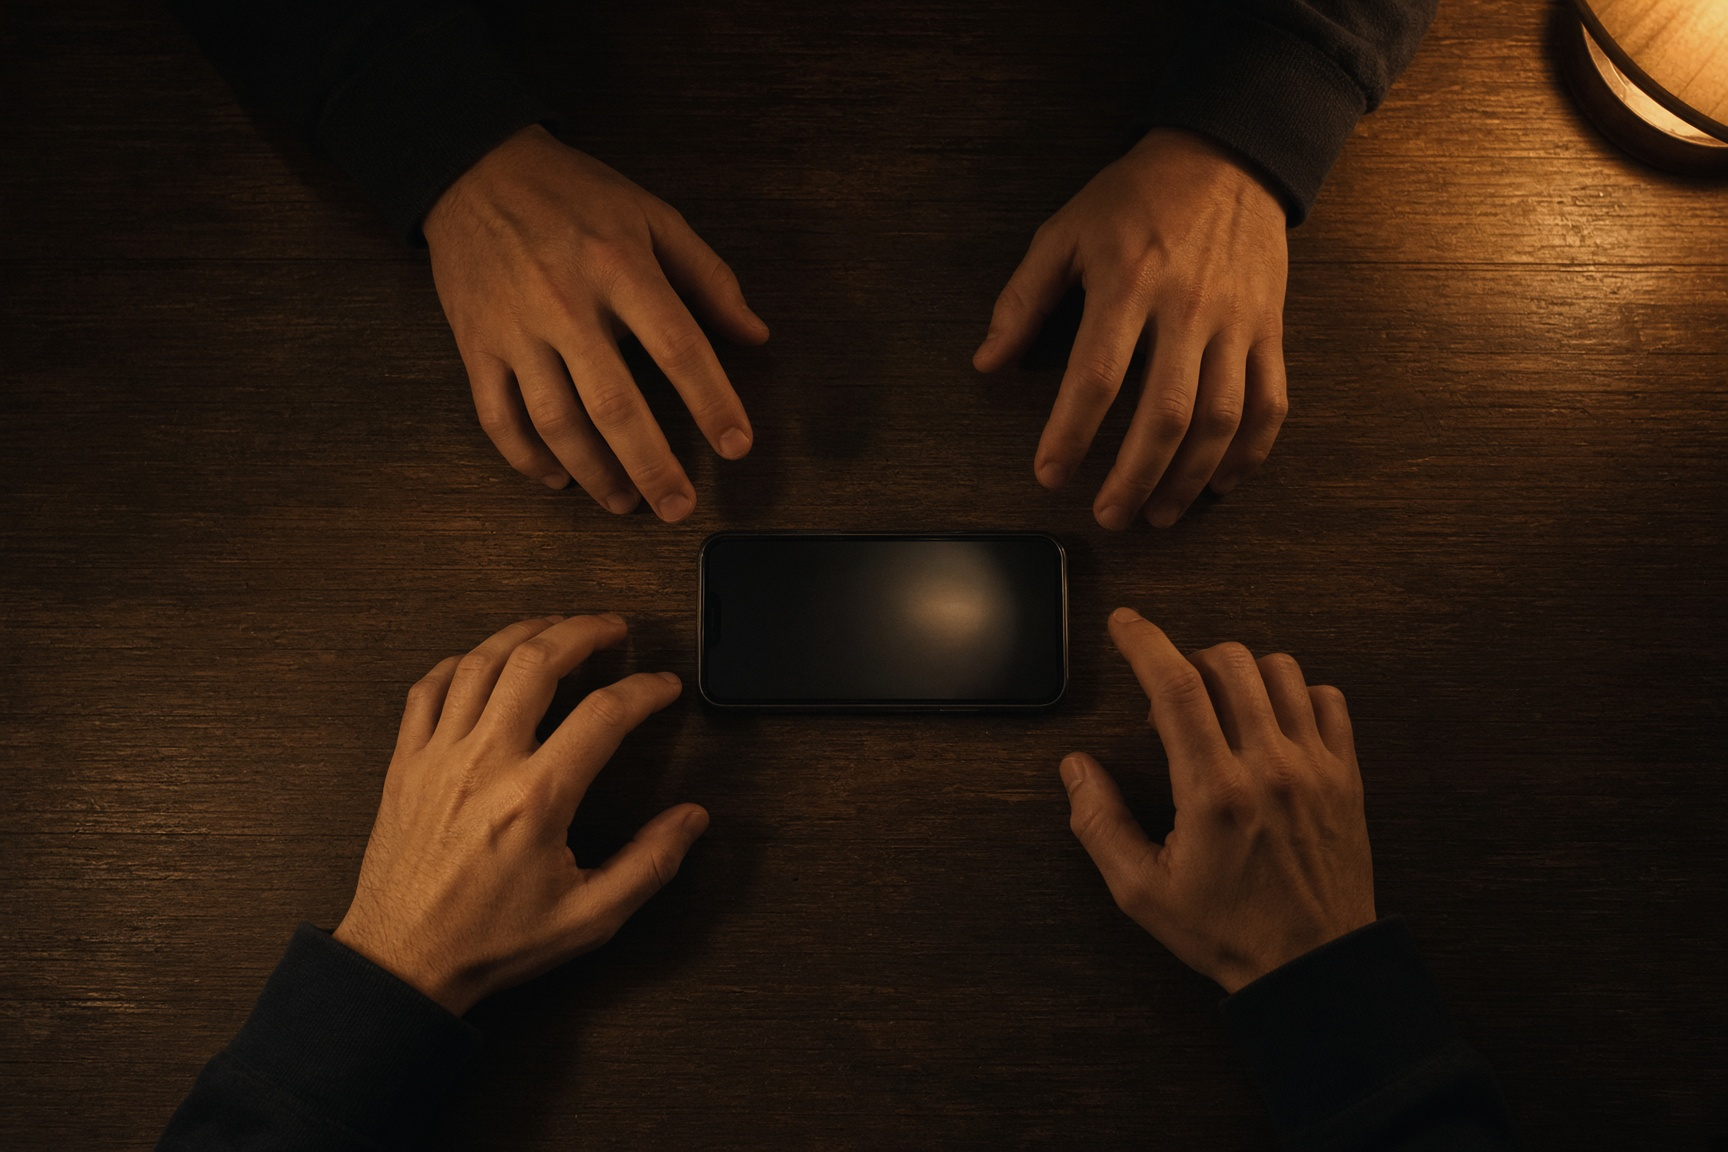
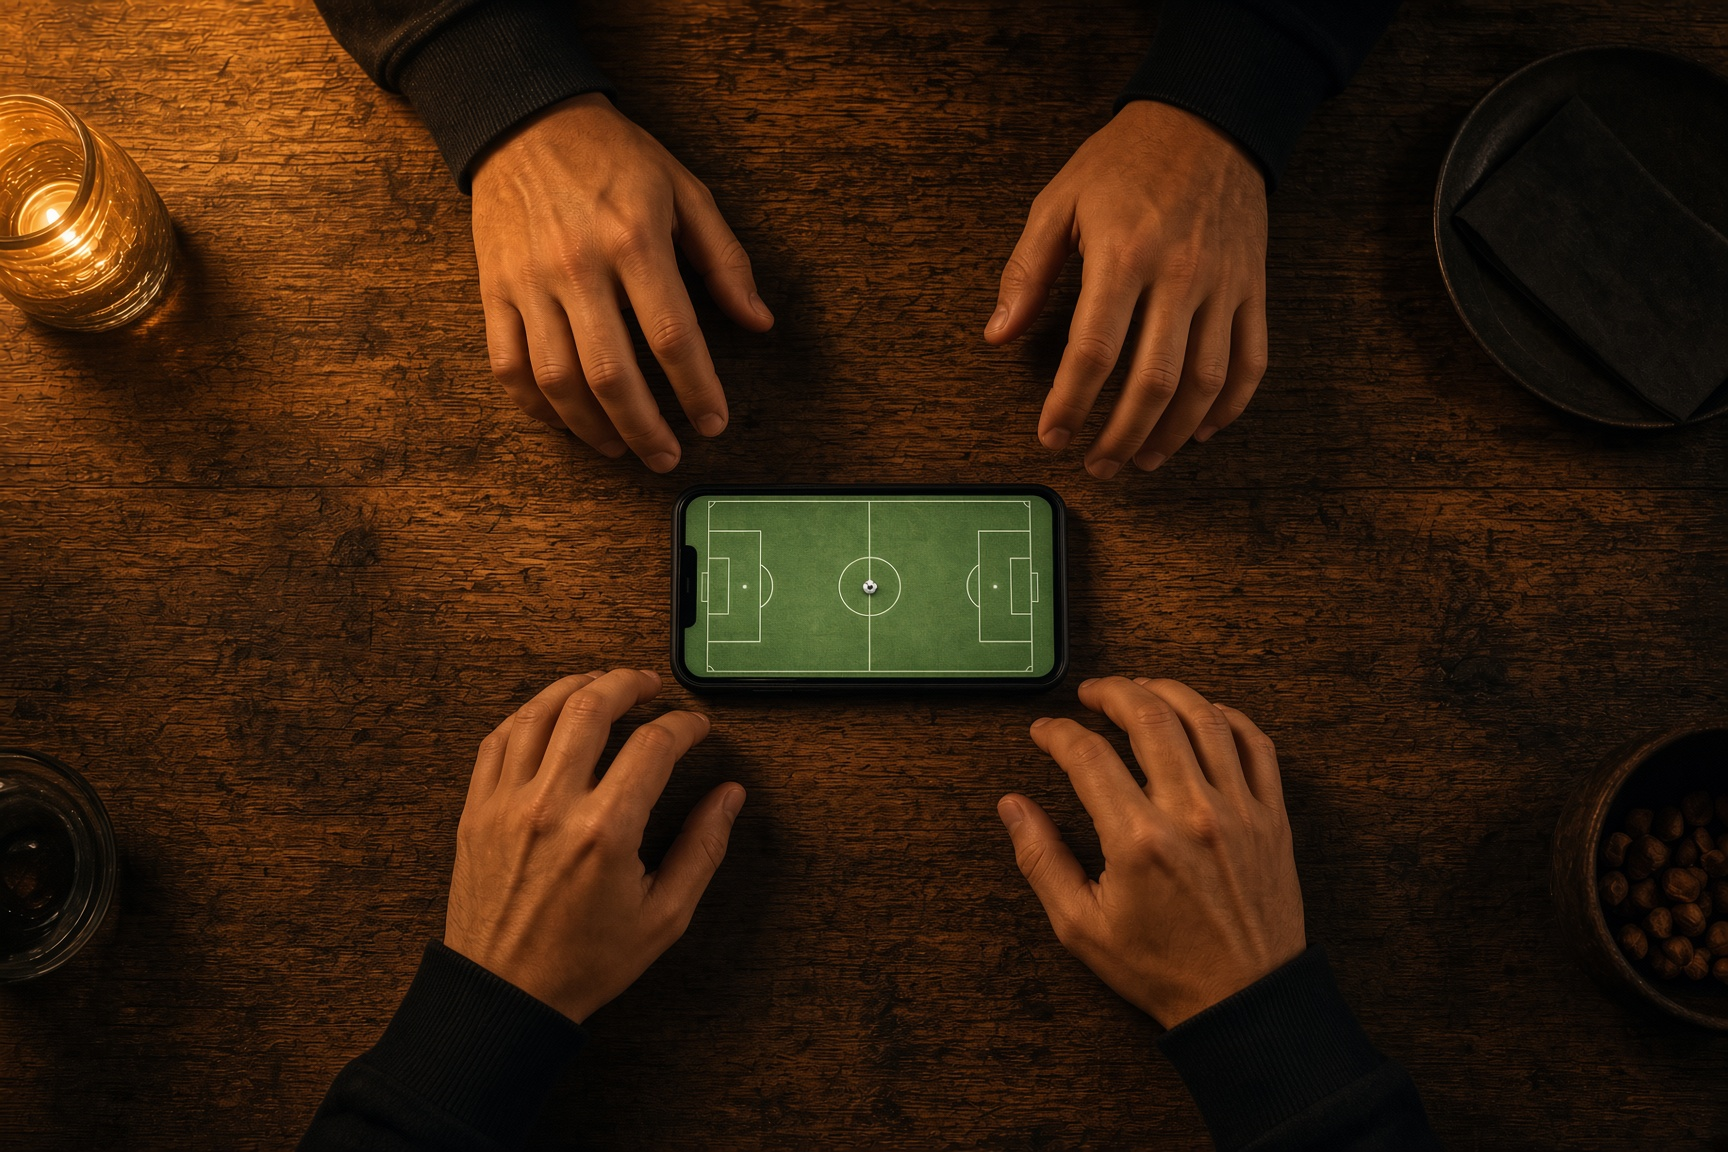
Add smiley ball skin and a clearer hands photo
New Sorriso ball and Estrela gloves. Landing/tutorial shot now
shows two players opposite on one phone.

diff --git a/src/game/render.ts b/src/game/render.ts
@@ -656,6 +656,20 @@ export class Renderer {
     ctx.restore();
   }
 
+  private drawSmileFace(ctx: CanvasRenderingContext2D, r: number) {
+    ctx.fillStyle = "#1a1208";
+    ctx.beginPath();
+    ctx.ellipse(-r * 0.22, -r * 0.12, r * 0.1, r * 0.14, 0, 0, Math.PI * 2);
+    ctx.ellipse(r * 0.22, -r * 0.12, r * 0.1, r * 0.14, 0, 0, Math.PI * 2);
+    ctx.fill();
+    ctx.strokeStyle = "#1a1208";
+    ctx.lineWidth = r * 0.08;
+    ctx.lineCap = "round";
+    ctx.beginPath();
+    ctx.arc(0, r * 0.08, r * 0.38, 0.15 * Math.PI, 0.85 * Math.PI);
+    ctx.stroke();
+  }
+
   private drawBallShadow(ctx: CanvasRenderingContext2D, ball: Ball, alpha: number) {
     const x = ball.px + (ball.x - ball.px) * alpha;
     const y = ball.py + (ball.y - ball.py) * alpha;
@@ -693,7 +707,9 @@ export class Renderer {
           ? "rgba(126,224,214,0.35)"
           : skin === "fire"
             ? "rgba(255,140,90,0.38)"
-            : "rgba(255,210,160,0.28)";
+            : skin === "smile"
+              ? "rgba(250,210,80,0.4)"
+              : "rgba(255,210,160,0.28)";
       aura.addColorStop(0, glow);
       aura.addColorStop(1, "rgba(255,210,160,0)");
       ctx.fillStyle = aura;
@@ -705,24 +721,34 @@ export class Renderer {
     ctx.beginPath();
     ctx.arc(0, 0, ball.r, 0, Math.PI * 2);
     ctx.fillStyle =
-      skin === "fire" ? "#f4a574" : skin === "ice" ? "#d8f7f3" : "#f7f6f2";
+      skin === "fire"
+        ? "#f4a574"
+        : skin === "ice"
+          ? "#d8f7f3"
+          : skin === "smile"
+            ? "#f5d15a"
+            : "#f7f6f2";
     ctx.fill();
     ctx.save();
     ctx.clip();
-    ctx.fillStyle = skin === "fire" ? "#5a1c12" : skin === "ice" ? "#1a4a48" : "#161616";
-    ctx.strokeStyle = ctx.fillStyle;
-    ctx.lineWidth = ball.r * 0.07;
-    pentagon(ctx, 0, 0, ball.r * 0.3, -Math.PI / 2, true);
-    for (let i = 0; i < 5; i++) {
-      const a = -Math.PI / 2 + (i * Math.PI * 2) / 5;
-      const d = ball.r * 0.7;
-      pentagon(ctx, Math.cos(a) * d, Math.sin(a) * d, ball.r * 0.2, a, true);
+    if (skin === "smile") {
+      this.drawSmileFace(ctx, ball.r);
+    } else {
+      ctx.fillStyle = skin === "fire" ? "#5a1c12" : skin === "ice" ? "#1a4a48" : "#161616";
+      ctx.strokeStyle = ctx.fillStyle;
+      ctx.lineWidth = ball.r * 0.07;
+      pentagon(ctx, 0, 0, ball.r * 0.3, -Math.PI / 2, true);
+      for (let i = 0; i < 5; i++) {
+        const a = -Math.PI / 2 + (i * Math.PI * 2) / 5;
+        const d = ball.r * 0.7;
+        pentagon(ctx, Math.cos(a) * d, Math.sin(a) * d, ball.r * 0.2, a, true);
+      }
+      ctx.beginPath();
+      ctx.arc(0, 0, ball.r * 0.52, 0, Math.PI * 2);
+      ctx.strokeStyle = "rgba(20,20,20,0.35)";
+      ctx.lineWidth = ball.r * 0.05;
+      ctx.stroke();
     }
-    ctx.beginPath();
-    ctx.arc(0, 0, ball.r * 0.52, 0, Math.PI * 2);
-    ctx.strokeStyle = "rgba(20,20,20,0.35)";
-    ctx.lineWidth = ball.r * 0.05;
-    ctx.stroke();
     ctx.restore();
 
     ctx.beginPath();
@@ -840,7 +866,11 @@ export class Renderer {
         ctx.fillRect(-f.r * 0.92, -f.r * 0.16, f.r * 1.84, f.r * 0.32);
       }
 
-      if (glove !== "solid") {
+      if (glove === "star") {
+        ctx.fillStyle = withAlpha(PAPER, 0.9);
+        starPath(ctx, 0, 0, f.r * 0.42);
+        ctx.fill();
+      } else if (glove !== "solid") {
         ctx.strokeStyle = withAlpha(PAPER, 0.28);
         ctx.lineWidth = 1.2;
         ctx.beginPath();
@@ -972,6 +1002,19 @@ function roundRect(
   ctx.arcTo(x + w, y + h, x, y + h, rr);
   ctx.arcTo(x, y + h, x, y, rr);
   ctx.arcTo(x, y, x + w, y, rr);
+  ctx.closePath();
+}
+
+function starPath(ctx: CanvasRenderingContext2D, x: number, y: number, r: number) {
+  ctx.beginPath();
+  for (let i = 0; i < 10; i++) {
+    const a = -Math.PI / 2 + (i * Math.PI) / 5;
+    const rad = i % 2 === 0 ? r : r * 0.4;
+    const px = x + Math.cos(a) * rad;
+    const py = y + Math.sin(a) * rad;
+    if (i === 0) ctx.moveTo(px, py);
+    else ctx.lineTo(px, py);
+  }
   ctx.closePath();
 }
 

diff --git a/src/game/types.ts b/src/game/types.ts
@@ -16,8 +16,8 @@ export type Axis = "tb" | "lr";
 export type GoalSize = "s" | "m" | "l";
 export type BotLevel = "easy" | "normal" | "hard";
 export type PitchTheme = "night" | "grass" | "rain";
-export type BallSkin = "classic" | "fire" | "ice";
-export type GloveSkin = "ring" | "stripe" | "solid";
+export type BallSkin = "classic" | "fire" | "ice" | "smile";
+export type GloveSkin = "ring" | "stripe" | "solid" | "star";
 
 export interface SideStats {
   shots: number;
@@ -205,9 +205,15 @@ export function loadSettings(): SavedSettings {
     const theme: PitchTheme =
       parsed.theme === "grass" || parsed.theme === "rain" ? parsed.theme : "night";
     const ballSkin: BallSkin =
-      parsed.ballSkin === "fire" || parsed.ballSkin === "ice" ? parsed.ballSkin : "classic";
+      parsed.ballSkin === "fire" || parsed.ballSkin === "ice" || parsed.ballSkin === "smile"
+        ? parsed.ballSkin
+        : "classic";
     const gloveSkin: GloveSkin =
-      parsed.gloveSkin === "stripe" || parsed.gloveSkin === "solid" ? parsed.gloveSkin : "ring";
+      parsed.gloveSkin === "stripe" ||
+      parsed.gloveSkin === "solid" ||
+      parsed.gloveSkin === "star"
+        ? parsed.gloveSkin
+        : "ring";
     return {
       target,
       muted: Boolean(parsed.muted),

diff --git a/src/components/game/Menu.tsx b/src/components/game/Menu.tsx
@@ -326,6 +326,7 @@ function Options({
               ["classic", "Clássica"],
               ["fire", "Fogo"],
               ["ice", "Gelo"],
+              ["smile", "Sorriso"],
             ] as const
           ).map(([id, label]) => (
             <button
@@ -348,6 +349,7 @@ function Options({
               ["ring", "Anel"],
               ["stripe", "Faixa"],
               ["solid", "Cheia"],
+              ["star", "Estrela"],
             ] as const
           ).map(([id, label]) => (
             <button
